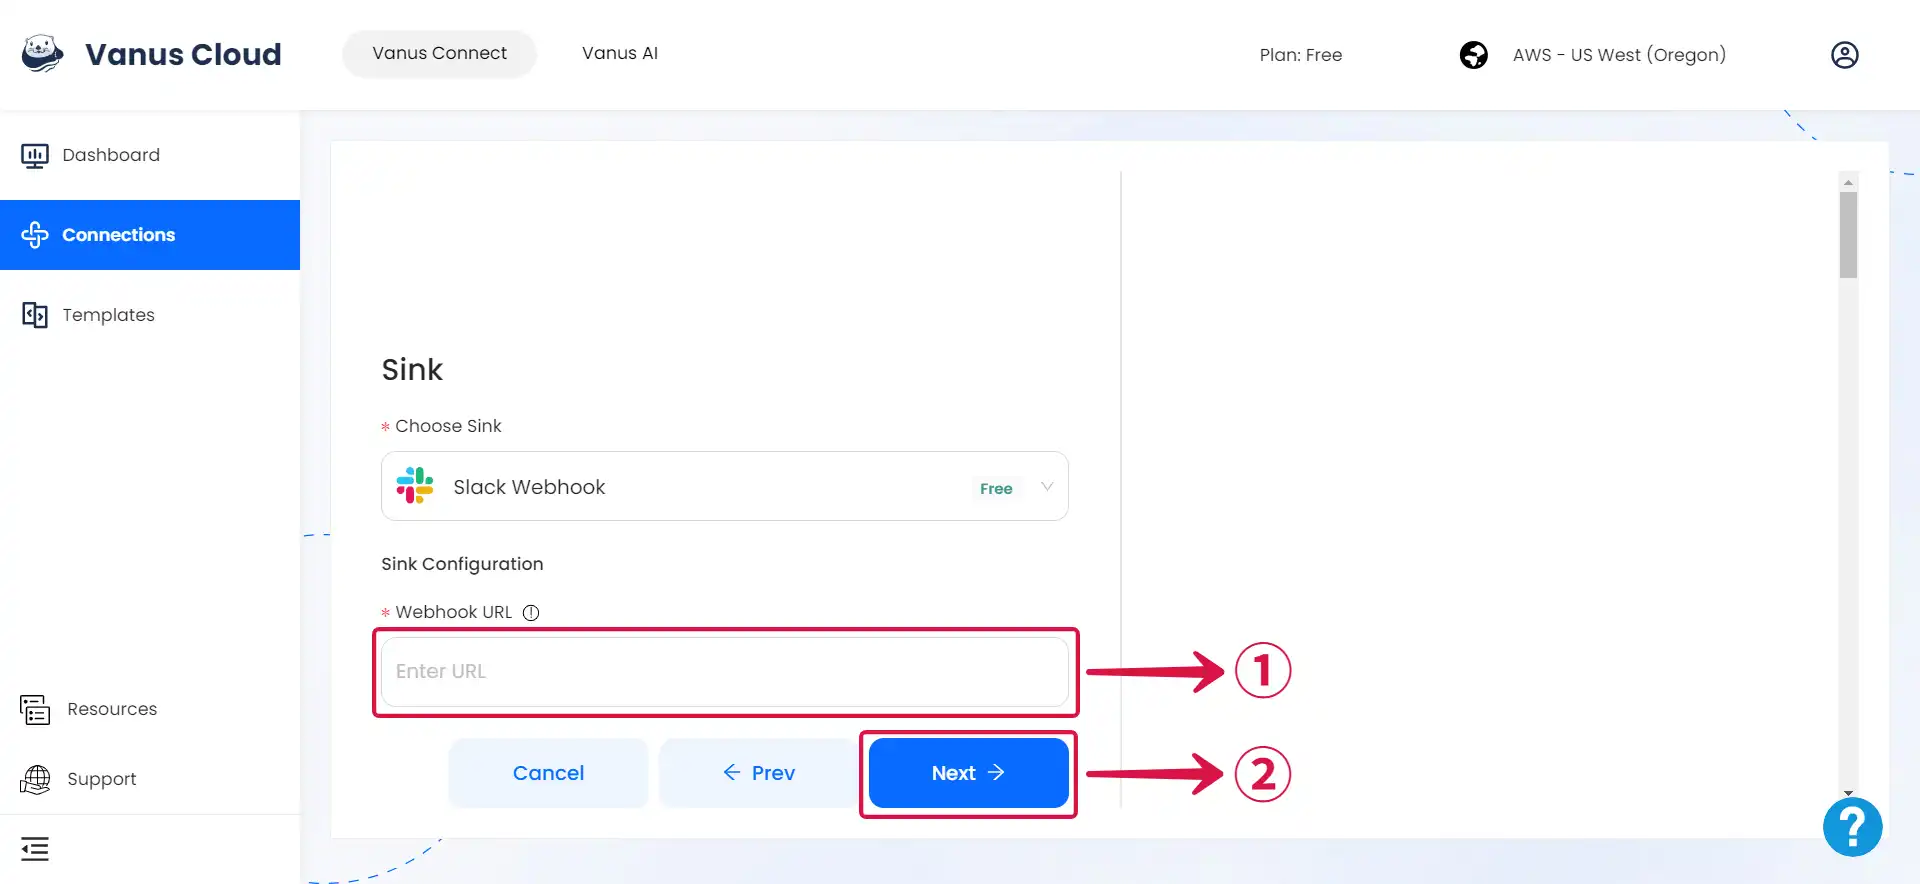
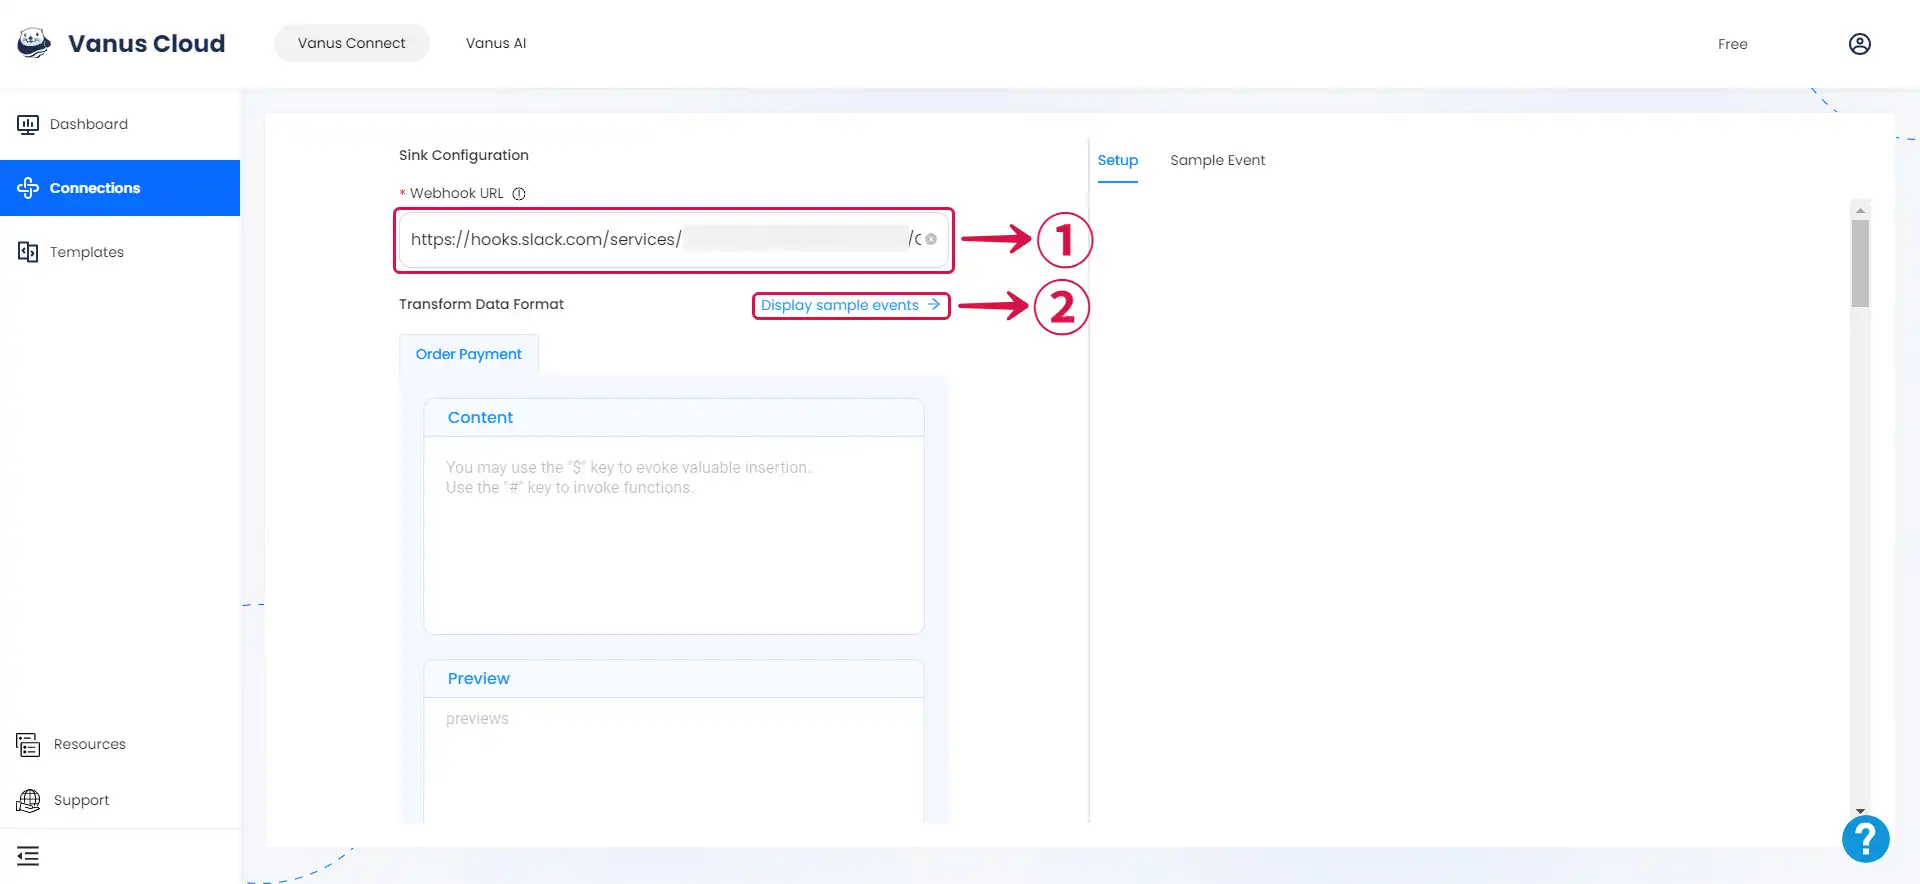
Docs: Slack webhook update (#677)
* Docs: Slack webhook update

diff --git a/content/vanus-connect/connector-guides/sink/slack/setup.md b/content/vanus-connect/connector-guides/sink/slack/setup.md
@@ -66,9 +66,62 @@ If you have created a Slack App already, you can skip Step 1 and directly go to 
 
 ### Step 3: Slack Connection Settings
 
-1. Paste the Webhook URL into the **Webhook URL**① field, and click on **Next**② to finish the configuration.
+**Complete SetUp Based On Source Connector**
+
+import Tabs from '@theme/Tabs';
+import TabItem from '@theme/TabItem';
+
+<Tabs>
+
+<TabItem label="Shopify" value="shopify">
+
+1. Paste the Webhook URL into the **Webhook URL**① field, and click on **Display sample events**② for reference.
 
 ![slack-sink-9](images/slack-sink-9.webp)
+
+2. Compose your preferred message, then type **`$` followed by the desired event③** to access a **list of associated event values**④, and choose the one you prefer.
+
+![slack-sink-10](images/slack-sink-10.webp)
+
+3. You can structure the content as you prefer and fill in as many **values**⑤ as you wish to receive.
+
+![slack-sink-11](images/slack-sink-11.webp)
+
+4. Click **Submit**⑥ to finish the configuration process.
+
+![slack-sink-12](images/slack-sink-12.webp)
+
+:::note
+You can structure your events to suit your specific requirements, create connections for different scenarios, or take advantage of our pre-existing connection templates for a more organized approach to sending events.
+:::
+
+</TabItem>
+
+<TabItem label="Stripe" value="stripe">
+
+1. 1. Paste the Webhook URL into the **Webhook URL**① field, and click on **Display sample events**② for reference.
+
+![slack-sink-13](images/slack-sink-13.webp)
+
+2. Compose your preferred message, then type **`$` followed by the desired event③** to access a **list of associated event values**④, and choose the one you prefer.
+
+![slack-sink-14](images/slack-sink-14.webp)
+
+3. You can structure the content as you prefer and fill in as many **values**⑤ as you wish to receive.
+
+![slack-sink-15](images/slack-sink-15.webp)
+
+4. Click **Submit**⑥ to finish the configuration process.
+
+![slack-sink-16](images/slack-sink-16.webp)
+
+:::note
+You can structure your events to suit your specific requirements, create connections for different scenarios, or take advantage of our pre-existing connection templates for a more organized approach to sending events.
+:::
+
+</TabItem>
+
+</Tabs>
 
 ---
 

diff --git a/content/cloud-docs/sink/slack/setup.md b/content/cloud-docs/sink/slack/setup.md
@@ -59,9 +59,62 @@ If you have created a Slack App already, you can skip Step 1 and directly go to 
 
 ### Step 3: Slack Connection Settings
 
-1. Paste the Webhook URL into the **Webhook URL**① field, and click on **Next**② to finish the configuration.
+**Complete SetUp Based On Source Connector**
+
+import Tabs from '@theme/Tabs';
+import TabItem from '@theme/TabItem';
+
+<Tabs>
+
+<TabItem label="Shopify" value="shopify">
+
+1. Paste the Webhook URL into the **Webhook URL**① field, and click on **Display sample events**② for reference.
 
 ![slack-sink-9](images/slack-sink-9.webp)
+
+2. Compose your preferred message, then type **`$` followed by the desired event③** to access a **list of associated event values**④, and choose the one you prefer.
+
+![slack-sink-10](images/slack-sink-10.webp)
+
+3. You can structure the content as you prefer and fill in as many **values**⑤ as you wish to receive.
+
+![slack-sink-11](images/slack-sink-11.webp)
+
+4. Click **Submit**⑥ to finish the configuration process.
+
+![slack-sink-12](images/slack-sink-12.webp)
+
+:::note
+You can structure your events to suit your specific requirements, create connections for different scenarios, or take advantage of our pre-existing connection templates for a more organized approach to sending events.
+:::
+
+</TabItem>
+
+<TabItem label="Stripe" value="stripe">
+
+1. Paste the Webhook URL into the **Webhook URL**① field, and click on **Display sample events**② for reference.
+
+![slack-sink-13](images/slack-sink-13.webp)
+
+2. Compose your preferred message, then type **`$` followed by the desired event③** to access a **list of associated event values**④, and choose the one you prefer.
+
+![slack-sink-14](images/slack-sink-14.webp)
+
+3. You can structure the content as you prefer and fill in as many **values**⑤ as you wish to receive.
+
+![slack-sink-15](images/slack-sink-15.webp)
+
+4. Click **Submit**⑥ to finish the configuration process.
+
+![slack-sink-16](images/slack-sink-16.webp)
+
+:::note
+You can structure your events to suit your specific requirements, create connections for different scenarios, or take advantage of our pre-existing connection templates for a more organized approach to sending events.
+:::
+
+</TabItem>
+
+</Tabs>
 
 ---
 
